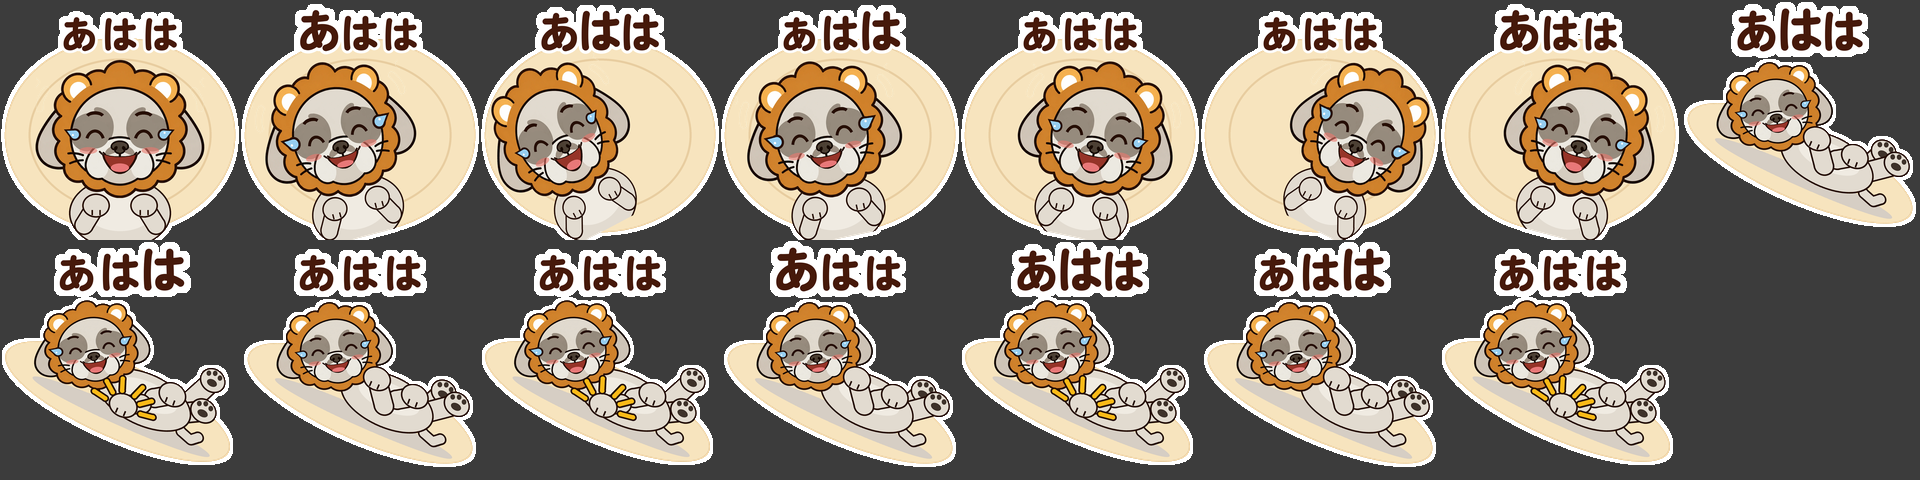
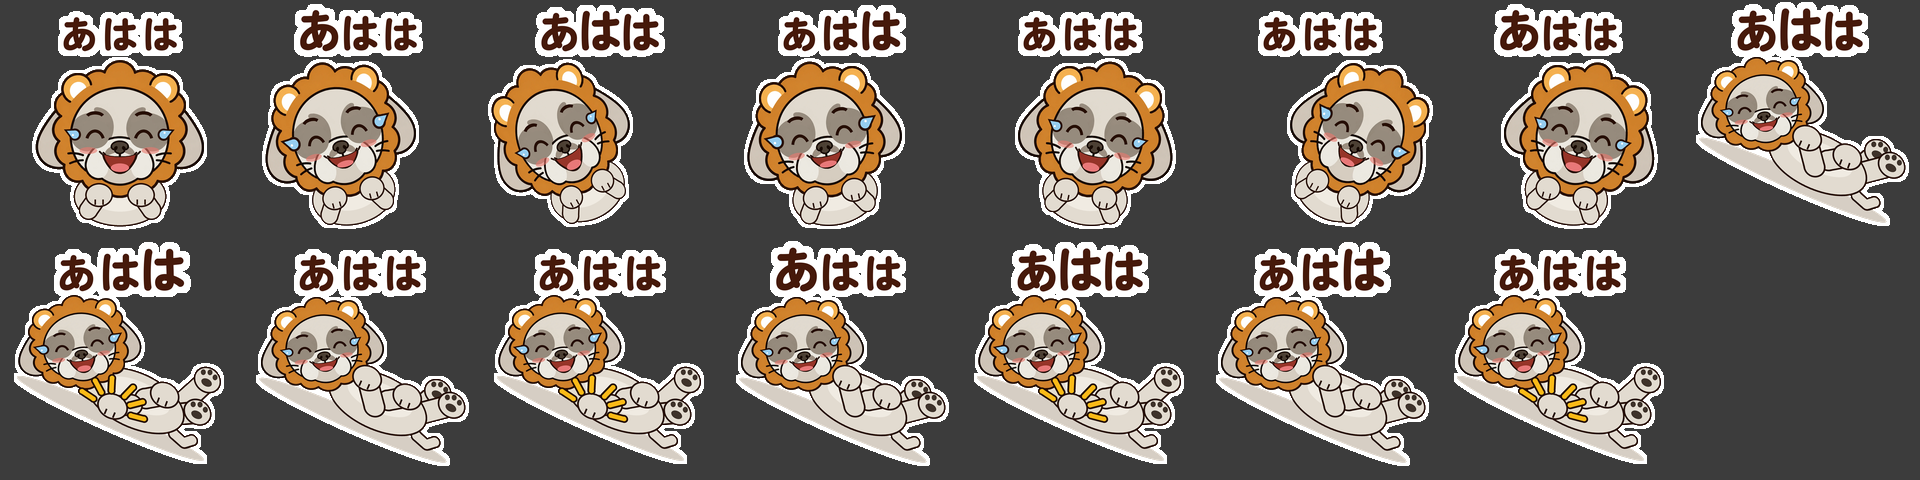
Remove the floor rug from the 'ahaha' sticker
Claude-Session: https://claude.ai/code/session_01KX3WDfyPkAofSs6dqvGAmw

diff --git a/.claude/skills/stamp-create/SKILL.md b/.claude/skills/stamp-create/SKILL.md
@@ -102,9 +102,9 @@ print(ms.verify("assets/gif/名前.gif"))                     # 検証
 - **あはは・お腹を抱えてゲラゲラ（画像1枚＋描き足し＋文字）**：左右の下から伸びた前足（手の甲側）を体の前で重ねてお腹を抱える。体は下の中央を軸に `0, 5, 8, 4, -4, -8` 度で左右に大きく揺れ、同時に毎コマ `-12 / +10px` で上下に小刻みに弾む。口はさらに大きく開け、`1.0 / 0.72` で開いたり閉じたりして「ハッ、ハッ」と笑う。目尻の水色の笑い涙は、とがった先を目に向けて外へ飛び出させる（まっすぐ立てると冷や汗に見える）。6コマで1往復×2回＝12コマ・1.5秒。文字「あはは」はリズムに合わせて1文字ずつ時間差で弾む
   - **地べたで笑い転げる版（体を描き足す）**：元の絵が顔だけでも、ユーザーが「体は作っていい」と言えば胴体・後ろ足・しっぽ・地面を描き足す。仰向けに寝転がり、頭は左（傾きは35度まで。70度など倒しすぎると小さく表示したとき顔が分からない）、胴体は横長の楕円で右へ、後ろ足は空中で1コマごとに交互にジタバタ（足の裏と黒っぽい肉球を見せる）。片方の前足でお腹を押さえ、もう片方は**頭と体の間**で地面を叩く（顔に重ねない）。全体を地面の接地点を軸に `-7〜7` 度でゴロゴロ揺らす。地面は影の楕円と線で表し、揺らさない。横長の姿なので、広めの作業用キャンバスに描いてから正方形に切り抜き、足先が切れていないか確認用シートで確かめる
   - **カメラのアングルを切り替える**（4秒・前半2秒＋後半2秒。コマ数は15まで）
-    - **顔の正面から**（前半7コマ×約285ms）：寝転がった顔を大きく正面から映し、床のラグ（クリーム色 RGB 247,228,190）は動かさない。顔の下に胴体とお腹を押さえる前足を少しのぞかせ、顔ごと `0, 15, 28, 12, -12, -28, -15` 度で回しながら傾きの向きへ横移動させてゴロゴロ転がす。横を向くほど幅を細くする（幅 × `1 - 0.16 × |角度| / 28`）
-    - **斜め上から**（後半8コマ＝振り上げ200ms・叩く300ms×4）：横から見た寝転がり姿の下に、床を**楕円の面**として描く → `Image.QUAD` で上（奥）を狭く・下（手前）を広くし、縦を 0.86 倍に縮め、`-24` 度ほど傾けて体を斜めに置く（横長の姿でも大きく映せる）。寄り方は、床の色を除いた**キャラの範囲だけ**で決める（床は端で切れてよい）。叩いた瞬間は切り抜き位置をずらして画面を揺らす
-    - 真上からの視点（ラグの上で手足を広げて転がる）や、地面すれすれの横からのアップも作れる。ユーザーの指定したアングルを優先する
+    - **顔の正面から**（前半7コマ×約285ms）：寝転がった顔を大きく正面から映す。**床のカーペット（ラグ）は描かない**（ユーザーの好み。背景は透過のまま）。顔の下に胴体とお腹を押さえる前足を少しのぞかせ（画面の下で切れないよう、胴体は小さめ・上寄りに）、顔ごと `0, 15, 28, 12, -12, -28, -15` 度で回しながら傾きの向きへ横移動させてゴロゴロ転がす。横を向くほど幅を細くする（幅 × `1 - 0.16 × |角度| / 28`）
+    - **斜め上から**（後半8コマ＝振り上げ200ms・叩く300ms×4）：横から見た寝転がり姿の下には**体の下の薄い影だけ**を描き（床のカーペットは描かない）→ `Image.QUAD` で上（奥）を狭く・下（手前）を広くし、縦を 0.86 倍に縮め、`-24` 度ほど傾けて体を斜めに置く（横長の姿でも大きく映せる）。寄り方は、影の色を除いた**キャラの範囲だけ**で決める。叩いた瞬間は切り抜き位置をずらして画面を揺らす
+    - 真上からの視点（手足を広げて転がる）や、地面すれすれの横からのアップも作れる。ユーザーの指定したアングルを優先する
   - 動きを**前半と後半で分ける**ときは、コマごとの値の並びを前半・後半で別々に組む。例：前半6コマ＝両前足でお腹を押さえて `-12, -6, 4, 12, 6, -4` 度で大きく転げる（体も傾きの向きに `傾き×2` px だけ横へ。大きく動かすと足先が切れる）／後半6コマ＝転がりを止めて地面を2回叩く
   - 端で切れていないかは、目で見るだけでなく数字でも確かめる：GIFの各コマで、上下左右いちばん端の列・行に透明でない画素があるかを調べ、あれば切り抜き範囲や部品の位置を直す
   - 前足でバンバン叩く版もある：振り上げ → 叩く（体がむにっと沈み、黄色い衝撃線が前足の左右に広がる）→ はね返り、の3コマを右→左で2回。叩いた前足は画面の下に隠れない高さに着地させる
